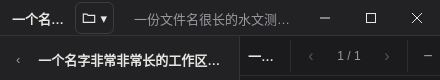
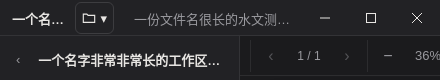
fix(toolbar): 收起到第二级起隐藏文档名（标题栏里有完整文件名）

diff --git a/apps/desktop/src/renderer/style.css b/apps/desktop/src/renderer/style.css
@@ -448,3 +448,5 @@ button.link.active { color: var(--accent); }
 .model-bar button.settings-link:focus-visible { outline: 2px solid var(--focus-ring); outline-offset: 2px; }
 .model-pick select option:checked { background: var(--surface-2); color: var(--text); }
 .sr-only { position: absolute; width: 1px; height: 1px; padding: 0; margin: -1px; overflow: hidden; clip: rect(0,0,0,0); border: 0; }
+/* From the second collapse stage the document name (also in the title bar) gives up its sliver entirely. */
+.reader-toolbar[data-collapse="2"] .reader-title, .reader-toolbar[data-collapse="3"] .reader-title, .reader-toolbar[data-collapse="4"] .reader-title { display: none; }
